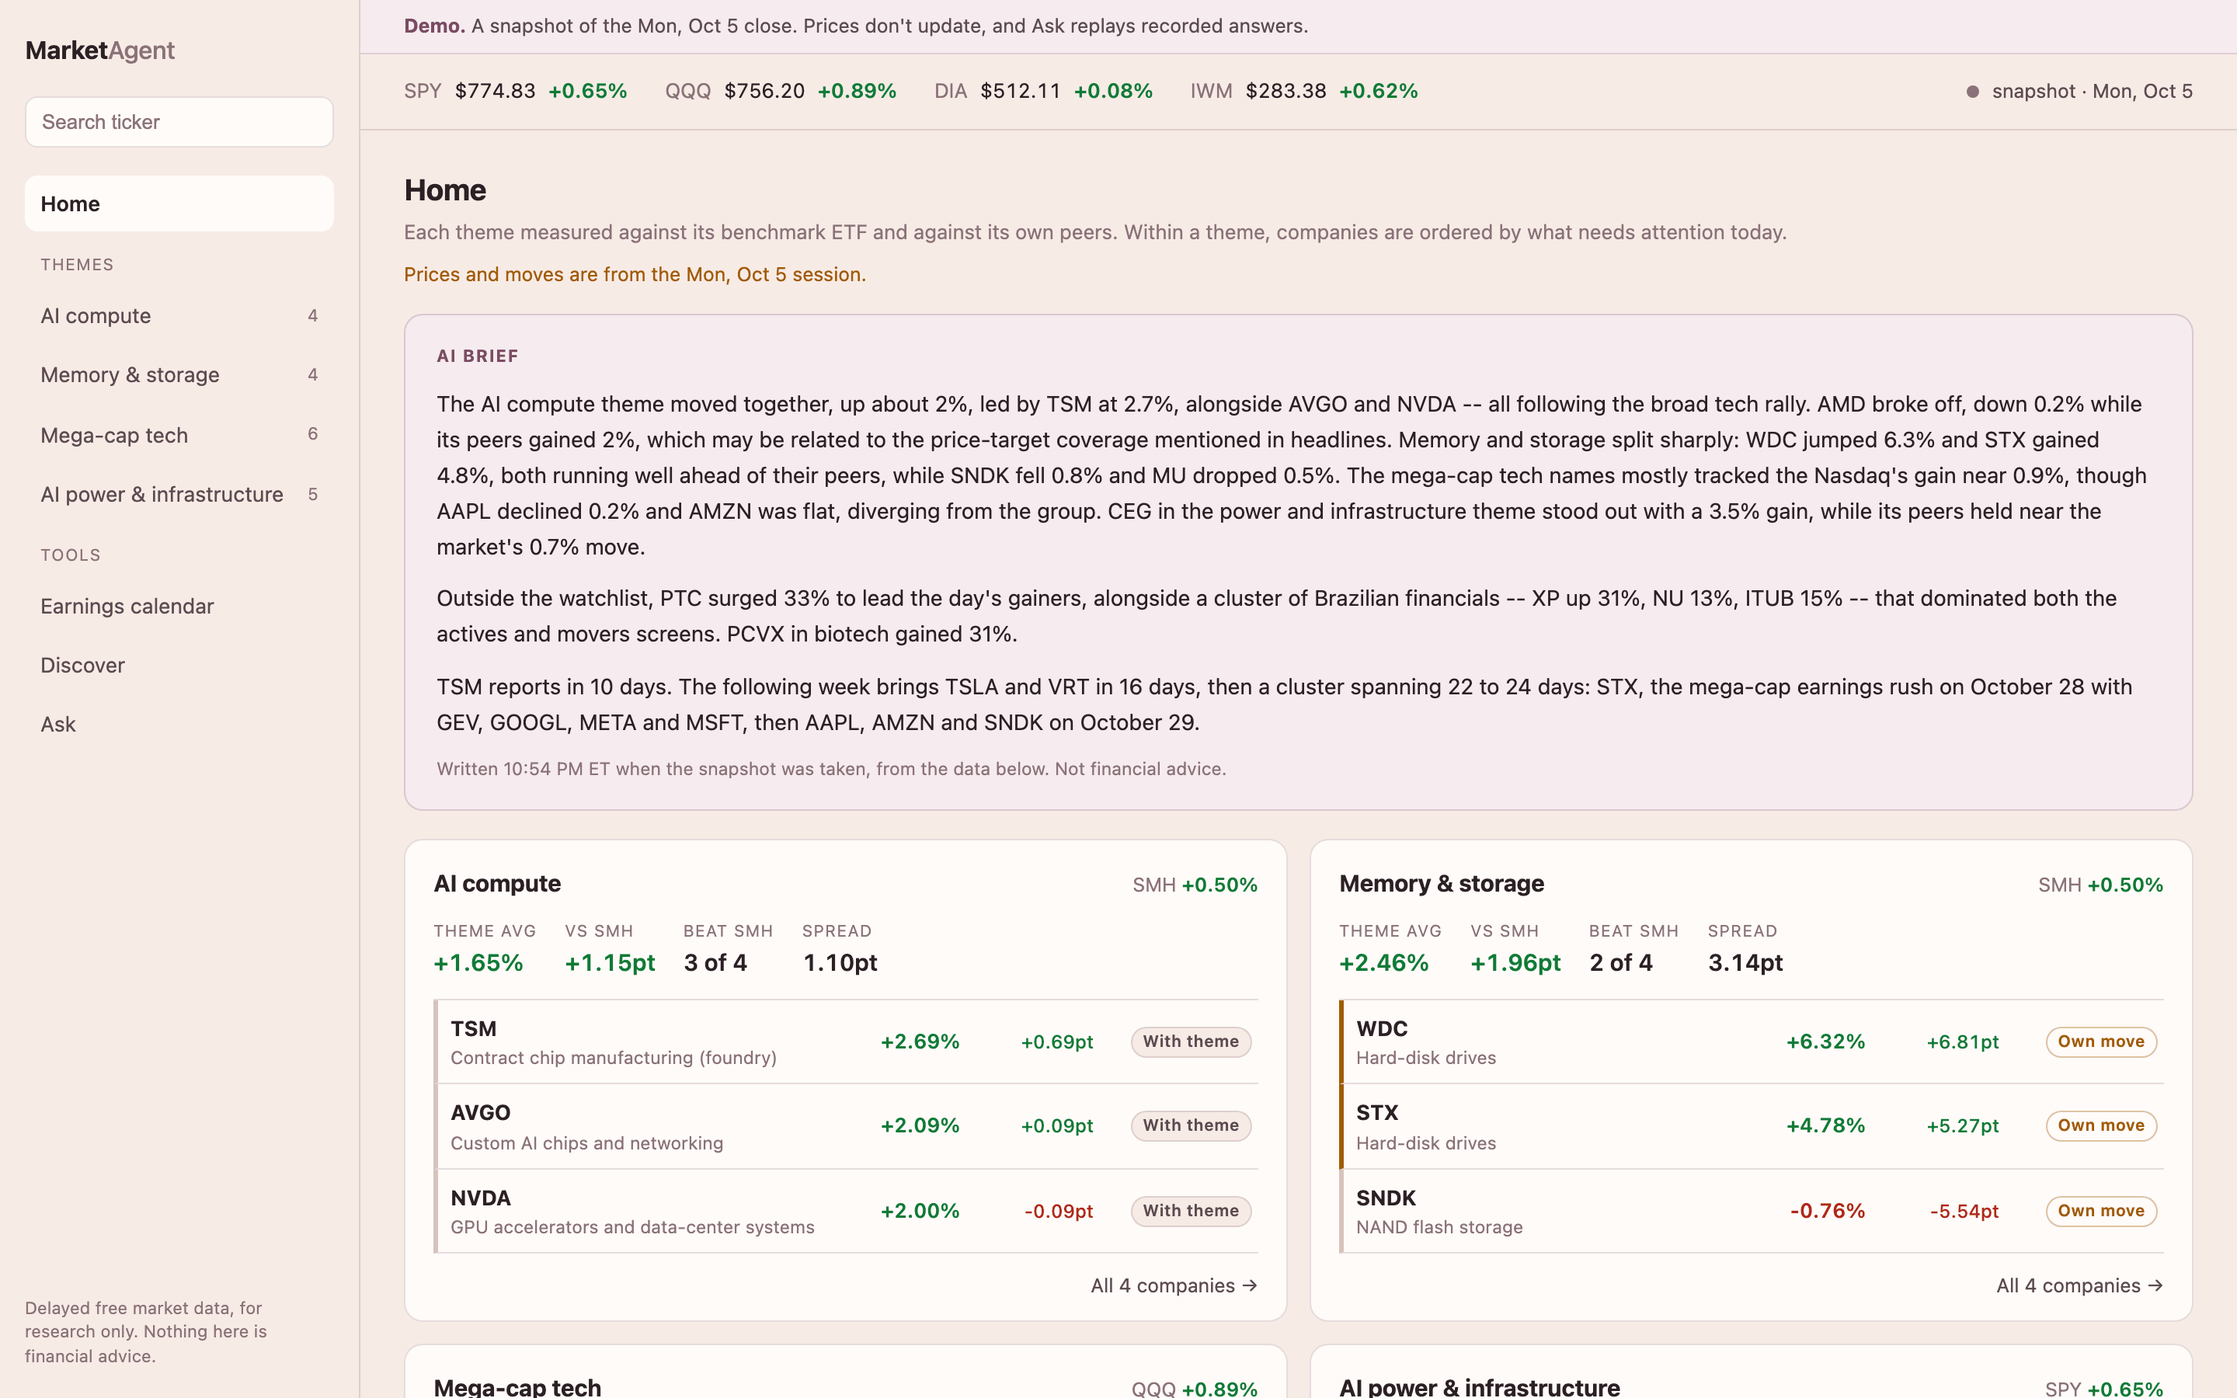
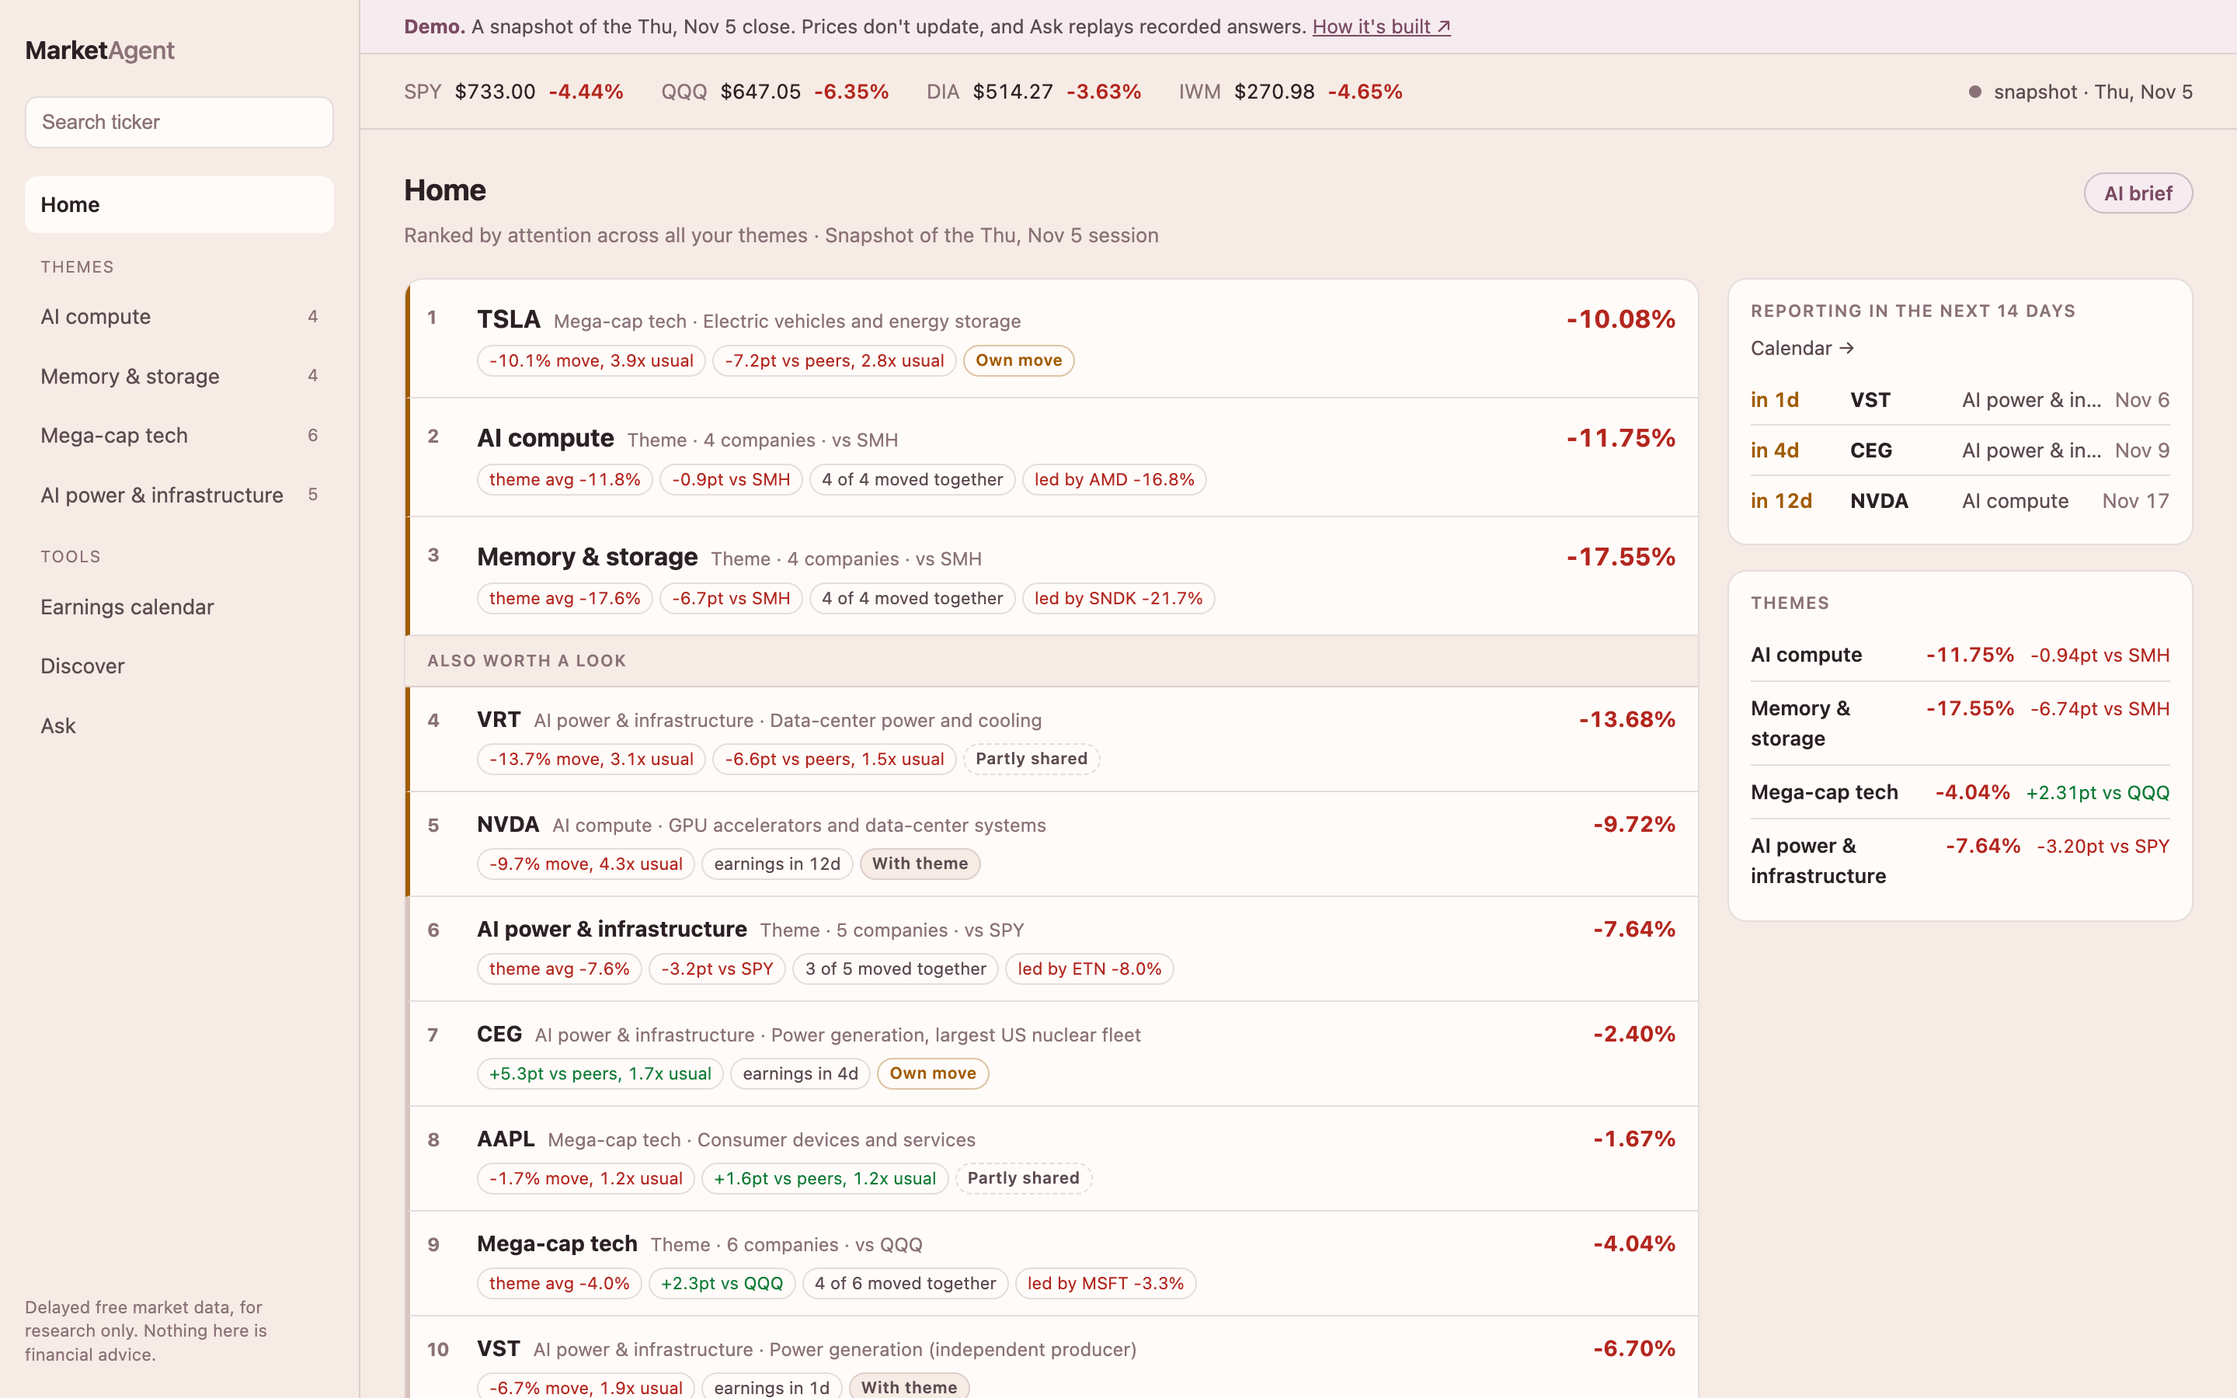
Publish the 5 November demo; retake the screenshots and walkthrough
The README's screenshots and walkthrough were from the 5 October
snapshot and the old home page. They are retaken from the 5 November
one: the ranked home page, the brief opened from its button (a new
screenshot), and a walkthrough that scrolls the ranking and opens the
brief instead of scrolling past it. The walk-through text follows the
new snapshot, and the README links the hosted demo at last.

The log records the decisions: publish without fixing the brief first,
on GitHub Pages; the issue list gains the rebuilt brief's calendar
slips and Discover's unsupported reason.

diff --git a/demo/capture.py b/demo/capture.py
@@ -49,6 +49,7 @@ MOBILE = {"width": 390, "height": 844}
 # (file name, hash route, what to do before the shot)
 SHOTS = [
     ("home", "#/", None),
+    ("home-brief", "#/", "brief"),
     ("theme-today", "#/theme/memory-storage", None),
     ("theme-performance", "#/theme/memory-storage/performance", None),
     ("theme-earnings", "#/theme/ai-compute/earnings", None),
@@ -117,6 +118,12 @@ def ask_first_question(page) -> None:
     page.wait_for_timeout(300)
 
 
+def open_brief(page) -> None:
+    """The home page's brief, opened from its button the way a reader would."""
+    page.click(".protoB-brief-button")
+    settle(page)
+
+
 def screenshots(browser, base: str, out: Path) -> list[Path]:
     out.mkdir(parents=True, exist_ok=True)
     written = []
@@ -127,6 +134,8 @@ def screenshots(browser, base: str, out: Path) -> list[Path]:
         settle(page)
         if action == "ask":
             ask_first_question(page)
+        elif action == "brief":
+            open_brief(page)
         path = out / f"{name}.png"
         page.screenshot(path=str(path))
         shrink(path)
@@ -243,7 +252,8 @@ def encode(frames: Path, out: Path) -> list[Path]:
 
 
 def walkthrough(browser, base: str, out: Path) -> list[Path]:
-    """About a minute: home and the brief, a theme's tabs, a company, Ask."""
+    """About a minute: the ranked home page and its brief, a theme's tabs, a
+    company, Ask."""
     out.mkdir(parents=True, exist_ok=True)
     context = browser.new_context(viewport=DESKTOP)
     context.add_init_script(POINTER_JS)
@@ -256,9 +266,13 @@ def walkthrough(browser, base: str, out: Path) -> list[Path]:
     page.mouse.move(*v.pointer)
     v.shot()
     v.hold(1.8)
-    v.scroll(500); v.hold(1.6)                       # the brief, then the theme cards
-    v.scroll(600); v.hold(1.6)
-    v.scroll(-1100, 1.0); v.hold(0.4)
+    v.scroll(450); v.hold(1.6)                       # the ranked list
+    v.scroll(450); v.hold(1.4)
+    v.scroll(-900, 1.0); v.hold(0.4)
+    v.click(".protoB-brief-button")                  # the brief opens only when asked for
+    v.hold(3.2)
+    v.click(".protoB-close")
+    v.hold(0.5)
 
     v.click('.nav-themes a[href="#/theme/memory-storage"]')
     v.hold(1.8)

diff --git a/README.md b/README.md
@@ -5,7 +5,9 @@ with their group and which moved on their own, and a tool-using Claude
 agent that answers questions from live market data instead of from memory.
 Plain Python rules do the ranking; Claude only explains.
 
-<!-- TODO: link to the hosted static demo once it's published -->
+**[Live demo](https://vvveronica1122.github.io/market-agent/)**: the dashboard as it stood at
+the close on 5 November 2026, served as static files. Prices don't update,
+and Ask replays answers the agent gave when the snapshot was taken.
 
 > Not financial advice. Data comes from free, delayed Yahoo Finance endpoints
 > and can be incomplete or wrong. The prompts forbid buy/sell/hold opinions,
@@ -16,33 +18,36 @@ Plain Python rules do the ranking; Claude only explains.
 You follow four themes: AI compute, memory & storage, mega-cap tech, and AI
 power. You open the dashboard to answer three questions: what changed, why
 it might matter, and what to check next. The screenshots are from the
-static snapshot of the Monday 5 October 2026 close, and every page says
-which session its prices are from.
+static snapshot of the Thursday 5 November 2026 close, a day the Nasdaq 100
+fell 6.4% and chip stocks 9.7-21.7%, and every page says which session its
+prices are from.
 
-![Home: an AI brief over four themes, each measured against its ETF and its peers](docs/images/home.png)
+![Home: companies and themes ranked by attention, each with the reasons for its place](docs/images/home.png)
 
-**What changed.** Home has one card per theme. Each shows the theme's
-equal-weighted move against its ETF, how many companies beat the ETF, and
-the spread between them. AI compute was up 1.65% against SMH's 0.50%, and
-each company is tagged *With theme*: the group moved together. Memory &
-storage was up 2.46% on average, but every company is tagged *Own move*.
-Above the cards, an AI brief tells each theme's story once and names the
-companies that broke from their group. It ends with the coming reports,
-here "TSM reports in 10 days".
+**What changed.** Home is one list, ranked across all your themes. A theme
+whose companies moved together takes one line: AI compute fell 11.75%,
+"4 of 4 moved together, led by AMD -16.8%", and memory & storage 17.55%.
+A company that broke from its group gets a line of its own. TSLA, first,
+fell 10.1% while its mega-cap peers' median fell 2.9%, and is tagged *Own
+move*. CEG, further down, fell 2.4% against its peers' 7.7% and reports in
+four days. Beside the list are the reports due in the next two weeks and
+each theme against its ETF. The AI brief opens from a button instead of
+greeting you. It tells each theme's story once, names the companies that
+broke from their group, and ends with the coming reports. The snapshot
+keeps what the model wrote that evening, unedited.
 
 ![Memory & storage, Today tab: companies ordered by what needs attention](docs/images/theme-today.png)
 
 **Why it might matter.** On the theme page, the *Today* tab orders the
 companies by an attention score. Each row shows the chips that earned its
 rank, so you can see why a company sits where it does: the move and its gap
-to peers, each sized against the stock's own usual day ("-4.4% move, 2.1x
-usual", "-1.7pt vs peers, 1.0x usual"), and "report reaction" on the
-session a report lands. "earnings in 3d" still shows, but adds nothing: a
-report coming up is in the calendar, not the rank. In the screenshot, taken
-under the earlier score, WDC (+6.32%) and STX (+4.78%) *need attention*.
-SNDK and MU fell slightly and are *worth a look*: each was more than 5
-points behind its peers. The page notes that SMH holds
-only MU, so for this theme the peer comparison is the one to read.
+to peers, each sized against the stock's own usual day ("-21.7% move, 4.1x
+usual", "-7.2pt vs peers, 2.8x usual"), and "report reaction" on the session a report
+lands. "earnings in 3d" still shows, but adds nothing: a report coming up
+is in the calendar, not the rank. In the screenshot all four memory names
+*need attention* and all are tagged *With theme*: they fell 14-22%
+together, against SMH's 10.8%. The page notes that SMH holds only MU, so
+for this theme the peer comparison is the one to read.
 
 "Peers" means the median move of the *other* companies in the theme. This
 matters because cap-weighted ETFs are dominated by the names being
@@ -51,8 +56,9 @@ would decide an average.
 
 ![MU's stock page: its move against its peer median and SMH](docs/images/stock-overview.png)
 
-**What to check.** MU's page puts its −0.49% beside its peers' median of
-+4.78% (−5.27pt) and SMH (−0.99pt). Below that come a six-month chart, an
+**What to check.** MU's page puts its −16.98% beside its peers' median of
+−17.14% (+0.16pt) and SMH (−6.17pt): a fall it shared with its group, far
+beyond its ETF. Below that come a six-month chart, an
 AI analysis (told to report the headlines beside the move, not to claim
 they caused it), and the headlines themselves. The *Earnings* tab measures
 the last eight reports with a market model: the move beyond what beta and
@@ -255,6 +261,10 @@ governed by Yahoo's terms.
 <td width="50%"><img src="docs/images/theme-peers.png" alt="Peer table with the theme median and flags where a figure would mislead"></td>
 </tr>
 <tr>
+<td><img src="docs/images/home-brief.png" alt="The AI brief, opened from the home page"></td>
+<td><img src="docs/images/stock-earnings.png" alt="MU's Earnings tab: each report's move beyond what the market predicted"></td>
+</tr>
+<tr>
 <td><img src="docs/images/discover.png" alt="Discover: market-wide movers grouped into themes"></td>
 <td><img src="docs/images/ask.png" alt="The Ask panel showing every tool call the agent made before answering"></td>
 </tr>
@@ -299,7 +309,8 @@ docs/MarketAgent_Review_and_Improvement_Plan.md   the outside review (Chinese)
   streaming, options flow or dark pool data. When a ticker's own Yahoo
   news feed is empty (as it was for every ticker in October 2026),
   headlines come from Yahoo's search endpoint. Those have no summaries,
-  so the AI text works from headlines alone.
+  so the AI text works from headlines alone, and many are about another
+  company (on 5 November AAPL's row showed a story about dYdX).
 - The attention score's caps and reaction bonus were set by hand before its
   backtest, and its thresholds come from one stretch of 2025–26; on the
   next six months "high" meant less volume than on the stretch it was set
@@ -318,6 +329,9 @@ docs/MarketAgent_Review_and_Improvement_Plan.md   the outside review (Chinese)
   months; the pages label it. Market hours ignore holidays. Discover falls
   back to a fixed large-cap list, and says so, if Yahoo's screener fails.
 - Notes and alerts aren't built; real alerts need a background scheduler.
+- Every open problem found so far, with where it was found and how it
+  might be fixed, is listed in [docs/ISSUES.md](docs/ISSUES.md) (in
+  Chinese).
 
 ## License
 

diff --git a/docs/ISSUES.md b/docs/ISSUES.md
@@ -10,10 +10,10 @@
 |---|---|---|---|---|
 | A1 | brief 把新评分的 "1.6x usual"（平时波动的 1.6 倍）读成成交量："on nearly twice their typical volume"。倍数检查的改写还把正确的 "1.6x its usual pace" 改成了 "volume 60% above usual" | [新闻句检查记录](../evals/tuning/batch2-news-check-2026-11.md)，"Found on the way" 一节 | 给 brief 的数据里把这项写清楚，比如 "-16.8%，平时一天大约动 3.8%"，不用倍数 | 要，改了 brief 的输入 |
 | A2 | 倍数检查漏掉 "six times harder"、"three to five times harder" 这类说法 | 同上 | `guards.py` 的倍数规则补上，加离线测试 | 改规则本身不用；最好顺带重跑一次倍数评估 |
-| A3 | 因果说法："AMZN jumped 6.4% following its earnings report"（线上首页 brief）；Discover 的 "strong Q3 results, driving their shares higher"；VRT 分析里的 "appears linked to the broader sector rotation" | 11 月初的线上 brief；11-05 demo 快照 | brief 和 Discover 的提示词，或者补一条因果检查 | 要 |
+| A3 | 因果说法："AMZN jumped 6.4% following its earnings report"（线上首页 brief）；Discover 的 "strong Q3 results, driving their shares higher" 和 "likely driven by its AI-powered advertising platform"（数据里没有这个理由）；VRT 分析里的 "appears linked to the broader sector rotation" | 11 月初的线上 brief；11-05 demo 快照 | brief 和 Discover 的提示词，或者补一条因果检查 | 要 |
 | A4 | 已经过去的财报日期：Yahoo 的"下一次财报日期"没更新时，传给 brief 的天数是负的（-3、-7、-8），brief 写出"三天前刚发过财报"，但没有可靠来源支撑 | 线上 brief；11-05 的前向记录里有 4 家 | 天数为负时不当作"下一次"，改传上一次财报日期 | 要 |
 | A5 | 给没有发布时间的新闻标上时间："reported this morning"、"A headline this morning"。数据里根本没有新闻时间，而 brief 提示词自己的示例就写着 "reported this morning" | [评估场景记录](../evals/tuning/scenarios-2026-11.md)；新闻句检查记录 | 改提示词里的示例；或者把新闻时间传进去 | 要 |
-| A6 | 日历范围算错：把 12 天后的 NVDA 算进"未来一周"；"the only name reporting within the week" 说的是 9 天后的财报 | 11-05 demo 快照；新闻句检查记录 | 在数据里直接给出"本周内"的名单，不让模型自己判断 | 要 |
+| A6 | 日历范围和计数算错：把 12 天后的 NVDA 算进"未来一周"；"the only name reporting within the week" 说的是 9 天后的财报；说 1 月 26 到 28 日有"六家"发财报，其实是七家；说"下一批在 1 月下旬"，漏掉了之前的 AVGO、MU、TSM | 11-05 demo 快照（两次构建）；新闻句检查记录 | 在数据里直接给出"本周内"的名单，不让模型自己判断 | 要 |
 | A7 | 比较说错：说 AAPL "跑赢的幅度差不多"，实际 AAPL 是 +1.6 个点，TSLA 是 -7.2 个点 | 11-05 demo 快照 | 先观察会不会反复出现；可以考虑加一条检查 | 先观察 |
 | A8 | 某家公司的新闻没加载出来时，约 8% 的 brief 仍会说它（或它所在的一组）"没有新闻"（6/72）。模型检查器能把这个比例降到约 2%，但误报太多、改写会伤到正确内容，所以没合并 | [新闻句检查记录](../evals/tuning/batch2-news-check-2026-11.md) | 检查器只处理点名这家公司、或说到包含它的一组的句子；只删被标的那一句，不整篇重写 | 要，先写计划 |
 | A9 | 日期未知时，"the calendar is quiet until CRM in 18 days" 这种没写 "known" 的说法，两道检查都没拦住 | 新闻句检查记录 | 补日历规则 | 要 |

diff --git a/docs/LOG.md b/docs/LOG.md
@@ -247,7 +247,9 @@
 | 11-01 | 关注度评分按推荐的三项来（异动分 + 财报反应日、未来事件移出排名、新闻条数退出评分），并跑留出窗口 | 修掉旧规则的几个明显毛病 | 留出窗口成立但幅度变小；11-05 上线 |
 | 11-02 | 首页选 B（跨主题排行榜，brief 放进抽屉） | 首屏直接是"今天该看谁、为什么"，打开首页不再调用模型 | 已合并；A、C 和旧首页删除 |
 | 11-02 | 检查通过就直接推送 | 少一轮往返 | 此后经检查和测试的合并直接推 master |
-| 11-05 | 先合并新评分；两个云端任务在本地重做；部署前先对比新旧版本和 demo | 云端任务卡了三天、额度已过期；上线前要有证据说明新版确实更好 | 新评分、评估场景扩充、前向记录已合并；新闻句检查按计划没合并（F2 未达标）；新旧对比进行中 |
+| 11-05 | 先合并新评分；两个云端任务在本地重做；部署前先对比新旧版本和 demo | 云端任务卡了三天、额度已过期；上线前要有证据说明新版确实更好 | 新评分、评估场景扩充、前向记录已合并；新闻句检查按计划没合并（F2 未达标）；对比结论：新版更好，也更能体现项目，但 brief 有事实错误、Discover 有空主题 |
+| 11-05 | 看完对比：brief 先不修，直接重建后发布到 GitHub Pages；装 Playwright 重拍截图和视频 | 先把能看的版本放出去；brief 的问题以后和别的问题一起修 | Discover 空主题已修；demo 重建并发布；README 截图、视频和讲解换成 11-05 的快照 |
+| 11-05 | 发现的问题先记下来，以后一起改 | 不零敲碎打，攒在一起按计划改 | 新建 [ISSUES.md](ISSUES.md)，集中列出还没修的问题 |
 | 10-15 | 请 Claude 评估项目质量，并和 AI Berkshire 对比 | 待补充 | 没有产生提交 |
 | 9 月至 10 月 8 日 | 待补充 | | |
 
